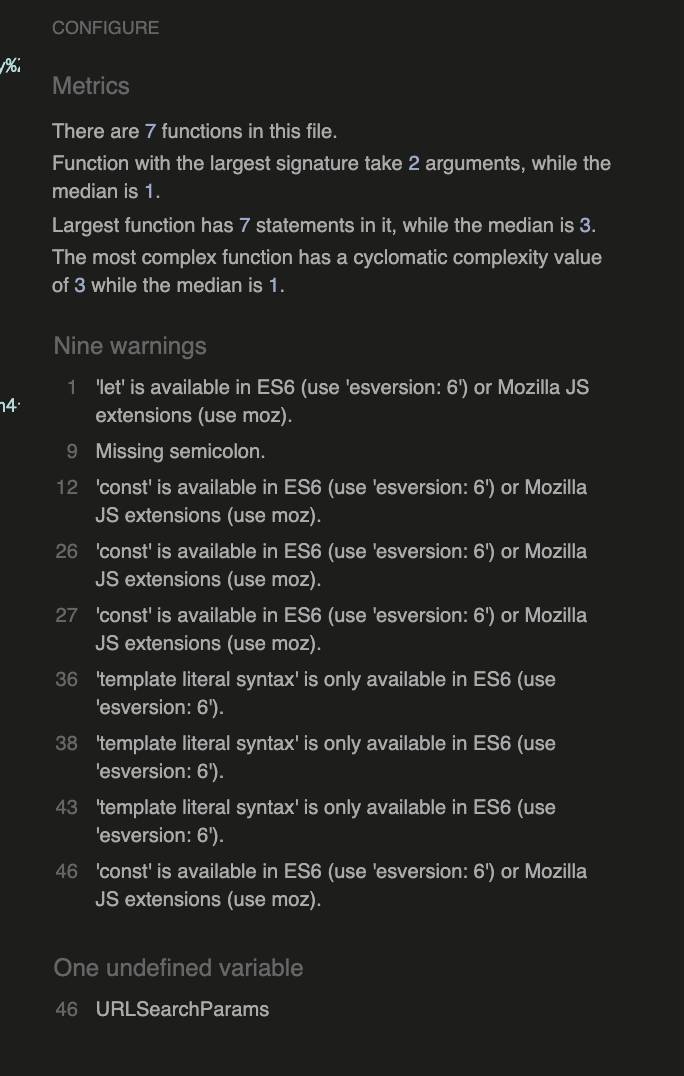
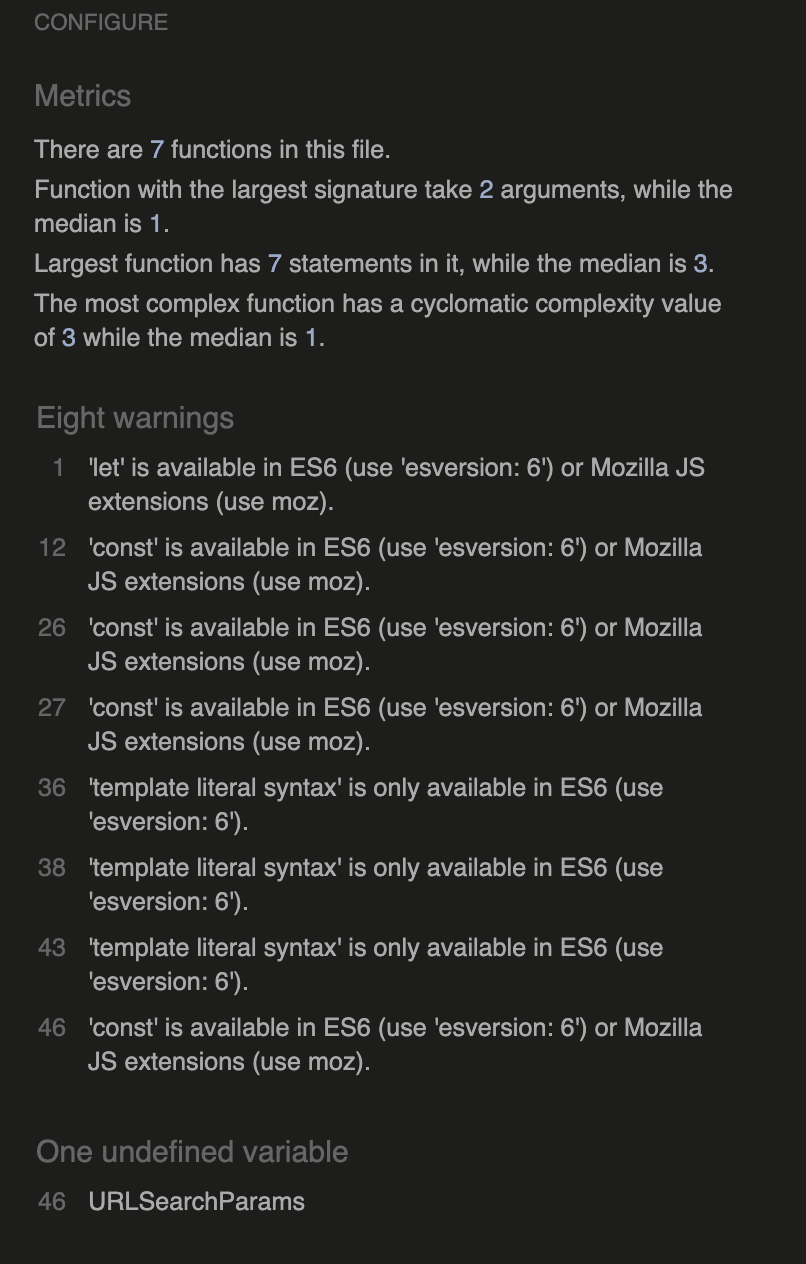
Updates to testing.md for JSHint amends

diff --git a/assets/js/getcountries.js b/assets/js/getcountries.js
@@ -6,7 +6,7 @@ if (window.location.pathname.toLowerCase() === '/ms2_project/country.html') {
 	getCountryDetails();
 }
 // Load the country details into the select control
-getDataCountry(writeCountry)
+getDataCountry(writeCountry);
 // gets Country Codes for Africa from API in 'open';
 function getDataCountry(cb) {
 	const xhttp = new XMLHttpRequest();

diff --git a/assets/js/getcountriesvtest.js b/assets/js/getcountriesvtest.js
@@ -6,7 +6,7 @@ if (window.location.pathname.toLowerCase() === '/country.html') {
 	getCountryDetails();
 }
 // Load the country details into the select control
-getDataCountry(writeCountry)
+getDataCountry(writeCountry);
 // gets Country Codes for Africa from API in 'open';
 function getDataCountry(cb) {
 	const xhttp = new XMLHttpRequest();

diff --git a/testing.md b/testing.md
@@ -72,14 +72,17 @@ The following automated tools were used to test the website during development o
     * **piecountry.js**
 
     ![alt text](https://readri205.github.io/MS2_Project/assets/documents/testscreenshots/jshintpiecountry.png "piecountry.js")
-    * **sendemailjs.js**
+    * **piecountry.js Part 2**
 
-    ![alt text](https://readri205.github.io/MS2_Project/assets/documents/testscreenshots/jshintsendemail.png "sendemail.js")
+    ![alt text](https://readri205.github.io/MS2_Project/assets/documents/testscreenshots/jshintpiecountrypart2.png "piecountry.js Part 2")
+    * **sendemail.js**
+
+    ![alt text](https://readri205.github.io/MS2_Project/assets/documents/testscreenshots/jshintsendemailjs.png "sendemail.js")
     * **totalcharts.js**
 
     ![alt text](https://readri205.github.io/MS2_Project/assets/documents/testscreenshots/jshinttotalcharts.png "totalcharts.js")
     * **worldstats.js**
-    
+
     ![alt text](https://readri205.github.io/MS2_Project/assets/documents/testscreenshots/jshintworldstats.png "worldstats.js")
 
 

diff --git a/README.md b/README.md
@@ -766,6 +766,7 @@ A **Zip File** clone can be downloaded from the same "Code" drop down above;
     * V22.9 Add text updates to README.md and testing.md
     * V23.0 Upload JSHint test screenshots
     * V23.1 Upload for getcountriesvtest.js to getcountries.js
+    * V23.2 Updates to testing.md for JSHint amends
 
 ***
 <b id="f1">1</b> Country searches drop down menu has some out of alphabetical listed order countries. The list order is defined by the Referential API. 1[↩](#a1)
